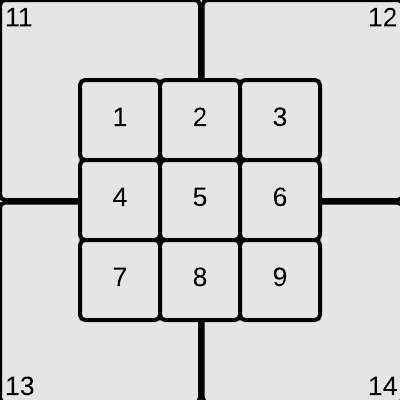
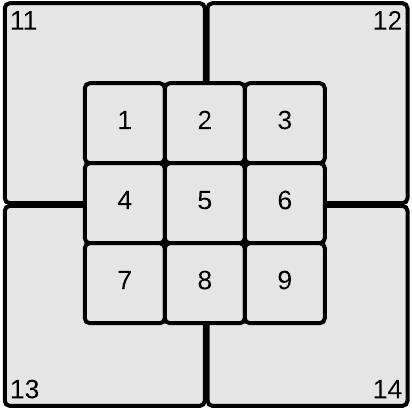
update statcast blog

diff --git a/folders/ds_blogs/blog_statcast.html b/folders/ds_blogs/blog_statcast.html
@@ -40,7 +40,8 @@
 
       <!-- Last updated -->
       <div class="date_updated">
-        <p>Updated: 11-14-2019</p>
+        <p>First Posted: 11-14-2019</p>
+        <p>Last Updated: 12-02-2019</p>
       </div>
 
 
@@ -186,6 +187,8 @@
               <p class="sub-title">
                 <h4>Methods</h4>
               </p>
+
+              <div id="methods">
               <p class="general-p">
                 <strong><em>Identifying top home run batters in 2019 World Series Teams</em></strong>
                 <br>
@@ -234,10 +237,13 @@
                 <a href="projects/2019_mlb_final_hitters/Top_HR_Player_Analysis.ipynb" class="jupyterlink">Jupyter
                   Notebook: Top HR player analysis</a>.
               </p>
+              </div>
+
               <hr class="sec-div">
               <p class="sub-title">
                 <h4>Results</h4>
               </p>
+
               <hr>
               <div id="top_hr_batters">
                 <p class="general-p">
@@ -281,8 +287,8 @@
                 </p>
                 <!-- Closing div section -->
               </div>
-              <hr>
 
+              <hr>
               <div id="batting_events">
                 <p class="general-p">
                   <p class="general-p">
@@ -450,7 +456,7 @@
               </div>
               <hr>
 
-              <div id="launch_speed_angle">
+              <div id="machine_learning">
                 <p class="general-p">
                 <strong><em>Predicting events with Machine Learning.</em></strong><br>
                 Machine learning has become a ubiquitous tool in data science.  It enables users to combine advance statistics, and computer science, without having to conduct all the complicated calculations.  So far, Figure 6-9 in this blog suggest that launch speed and launch would be good parameters for identifying home run events.  Although visually convincing, advance statistical techniques would need to be used to determine their use in predicting if a batting events will result in a home run. <br><br>
@@ -459,7 +465,7 @@
                 <strong><em>Support Vector Machine Modeling Predicts Home Runs 70% of the time</em></strong><br>
                 The non linear SVG was conducted using the gamma and C parameters set to 1.  The accuracy score for both the training and test set was 97%.  Plotting a subset of this data showed that the model built a decision boundary around the area home runs are scored (Figure 11).  Fine tuning of the SVM parameters would be required to in order to optimize this boundary.  Tests to validate the performance of this model showed that the model classified true negatives 99% of the time, false positives 1% of the time, false negatives 32% of the time, and true positives at 68% of the time (Figure 12).  Moreover, the classification report showed that the model had a precision score for home runs at 78%, a recall score at 67%, and an f1-score at 72%.
                   <a href="projects/2019_mlb_final_hitters/static/images/svg_batted_events.png">
-                    <img src="projects/2019_mlb_final_hitters/static/images/svg_batted_events.png" width="100%" height=100%
+                    <img src="projects/2019_mlb_final_hitters/static/images/svg_batted_events.png" width="50%" height=50%
                       class="figure"></img>
                   </a>
                   <p class="figure_title"><strong>Figure 11. </strong> Decision Boundary for a subset of batted events using the machine learning model SVG. <font color="orange">Home Run events</font> are predicted to fall within the Orange boundary, in triangles. Whereas, non home runs reside in the blue region.</p>
@@ -484,7 +490,7 @@
               </div>
 
               <hr>
-              <div id="batting_events">
+              <div id="release_speeds">
                 <p class="general-p">
                 <strong><em>Players scored home runs on pitches between 89-90 mph.</em></strong>
                 Statcast not only tracks the speed of batted events, but it also tracks the speed of the ball as it leaves the pitcher's hand. In the 2019 season, the mean pitch speed for all pitches was 88.9 mph ± 5.8 SD (N = 187529, any feature with a missing value was excluded).  The the mean pitch speed that Bregman (N = 749, M 89.3 ± 5.7 SD), Rendon (N= 711, M 89.9 ± 5.5 SD), and Soto (N = 730, M 88.9 ± 5.8 SD) encountered at the plate seemed consisted with the season average. Interestingly, the mean pitch speed for events that resulted in a home runs for each player (Table 4).  Both Bregman and Rendon had a slight reduction in their mean pitch speed, while Soto hit faster pitched balls.  To determine if there were differences in the pitch velocities the players encountered at plate during the entire season, a Kruskal Wallis H-Test for Independent samples was conducted. This test was used because the pitch speed data for each player was not normally distributed(confirmed by distplot and Shapiro-Wilk test, analysis in jupyter notebook). The Kruskal Wallis H-Test rejected the null hypothesis (statistic=11.3713, pvalue=0.0033), and a Dunn's post hoc test indicates that the mean pitch speed between Soto and Rendon was significantly different (p = 0.002238), suggesting that overall, Rendon encountered faster pitched balls than Soto. To then test if the pitch speed for events that results in a home run were different, a Kruskal Wallis H-Test was also conducted on only the home run events.  This test indicates that the mean pitch speed for home run events did not differ between players (statistic=1.2435, pvalue=0.5369).  Taken together, these results suggest that although the mean pitch speed that Rendon and Soto encountered at plate was significantly different, the pitch speeds for home runs they scored was not.
@@ -507,47 +513,66 @@
                 <!-- Closing div section -->
               </div>
 
-
               <hr>
-              <div id="batting_events">
+              <div id="home_run_zone">
                 <p class="general-p">
                     <strong><em>Home Run Pitch Locations.</em></strong><br>
-                    Statcast also tracks the location that the ball crosses the plate.  This information not only gives us information about the pitching behavior, but when the ball is hit, it also gives us insight into the batter's hitting zone.  A 
+                    Statcast also tracks the location that the ball crosses the plate.  This data helps describe pitching behavior, and when hit by a batter at plate, it provides the player's hitting zone (Figure 14).  To find the batters home run zone, each pitch location associated with a home run event was assigned to a point in a 2D histogram.  The color bar indicates the number of events within each area of the pitch zone (Figure 15).  Darker areas are indicative of more pitches that were hit in that zone, and since this plot only includes events that resulted in a home run, provides a snapshot of the player's home run zone.<br><br>
+
+                    <strong><em>Alex Bregman's Home Run Zones are 4, 5 and 2.</em></strong><br>
+                    Alex Bregman bats at right, and we can see in figure 15 that much of his home runs were hit in the pitch location 4, followed by 2 and 5.<br><br>
+                    <strong><em>Anthony Rendon's Home Run Zones are 5, 4 and 6.</em></strong><br>
+                    Anthony Rendon bats at right, and we can see in figure 16 that much of his home runs were hit in the pitch location 5, 4, and 6 followed by 2 and 5.<br><br>
+
+                    <strong><em>Juan Soto's Home Run Zones are 5, 4, 2 and 3.</em></strong><br>
+                    Juan Soto bats at left, and we can see in figure 17 that unlike Bregman and Rendon, he hit zone seems more distributed. Another way to describe the hit zones, is to think of the amount of white squares, which are areas with few to no events.  Soto has less squares with white than the other players, although a statistical analysis would need to be conducted to confirm this observation. <br><br>
 
                   <a href="projects/2019_mlb_final_hitters/static/images/statcast_zone_model.png">
                     <img src="projects/2019_mlb_final_hitters/static/images/statcast_zone_model.png" width="100%" height=100%
                       class="figure"></img></a>
-                  <p class="figure_title"><strong>Figure 14. </strong> MLB All-Star Game ANIMATED Pitch Zone. Image retrieved 12-02-19 from Forbes.com Brown, Maury. "3D Statcast To Skycams To 75 Mics Around The Field: MLB All-Star Game On FOX Will Be Unlike Any Before"<a
-                      href="https://www.forbes.com/sites/maurybrown/2019/07/09/3d-statcast-to-skycams-to-over-75-mics-in-the-field-mlb-all-star-game-on-fox-will-unlike-anything-before/#783d4ddbf051">Forbes 2019 </a>
+                  <p class="figure_title"><strong>Figure 14. </strong> Image retrieved 12-02-19 from Forbes.com Brown, Maury. "3D Statcast To Skycams To 75 Mics Around The Field: MLB All-Star Game On FOX Will Be Unlike Any Before"<a
+                      href="https://www.forbes.com/sites/maurybrown/2019/07/09/3d-statcast-to-skycams-to-over-75-mics-in-the-field-mlb-all-star-game-on-fox-will-unlike-anything-before/#783d4ddbf051">MLB All-Star Game ANIMATED Pitch Zone </a>
                   </p>
 
-
+                  <a href="projects/2019_mlb_final_hitters/static/images/pitch_locations.png">
+                    <img src="projects/2019_mlb_final_hitters/static/images/pitch_locations.png" width="75%" height=75%
+                      class="figure"></img></a>
+                  <p class="figure_title"><strong>Figure 15. </strong> Pitch zone grid used in home run hitting density plots. Zone's 11-14 are included, but were not used in this analysis.
+                  </p>
 
 
                   <a href="projects/2019_mlb_final_hitters/static/images/bregman_hr_zone.png">
                     <img src="projects/2019_mlb_final_hitters/static/images/bregman_hr_zone.png" width="100%"
                       height=100% class="figure"></img>
                   </a>
-                  <p class="figure_title"><strong>Figure 14. </strong>Alex Bregman's batting home run zone.</p>
+                  <p class="figure_title"><strong>Figure 16. </strong>Alex Bregman's batting home run zone.</p>
 
 
                   <a href="projects/2019_mlb_final_hitters/static/images/rendon_hr_zone.png">
                     <img src="projects/2019_mlb_final_hitters/static/images/rendon_hr_zone.png" width="100%" height=100%
                       class="figure"></img>
                   </a>
-                  <p class="figure_title"><strong>Figure 15. </strong>Anthony Rendon's batting home run zone.</p>
+                  <p class="figure_title"><strong>Figure 17. </strong>Anthony Rendon's batting home run zone.</p>
 
 
                   <a href="projects/2019_mlb_final_hitters/static/images/soto_hr_zone.png">
                     <img src="projects/2019_mlb_final_hitters/static/images/soto_hr_zone.png" width="100%" height=100%
                       class="figure"></img>
                   </a>
-                  <p class="figure_title"><strong>Figure 16. </strong>Juan Soto's batting home run zone.</p>
+                  <p class="figure_title"><strong>Figure 18. </strong>Juan Soto's batting home run zone.</p>
 
                   <!-- Closing p section -->
                 </p>
                 <!-- Closing div section -->
               </div>
+
+            <hr>
+            <div id="conclusion">
+                <p class="general-p">
+                  <h4>Bringing it all together</h4>
+                  The advent of technology such as Statcast, has made it possible to probe in game events.  As highlighted in this blog, Statcast can be used to evaluate the various batting event outcomes, determine which players hit the ball the farthest, determine which batter related events are predictors of home runs, and even explore pitcher related events (pitch speeds and pitch locations).  The analysis conducted in this study are only the tip of the iceberg, so much more can be asked, such as what batting events are more likely to result in a field out, what areas of the field have the highest ball landing location, which players have the highest number of steals, and what other factors may contribute to home run events. 
+                </p>
+            </div>
 
 
               <!-- ################################ DO NOT ENTER ########################## -->
